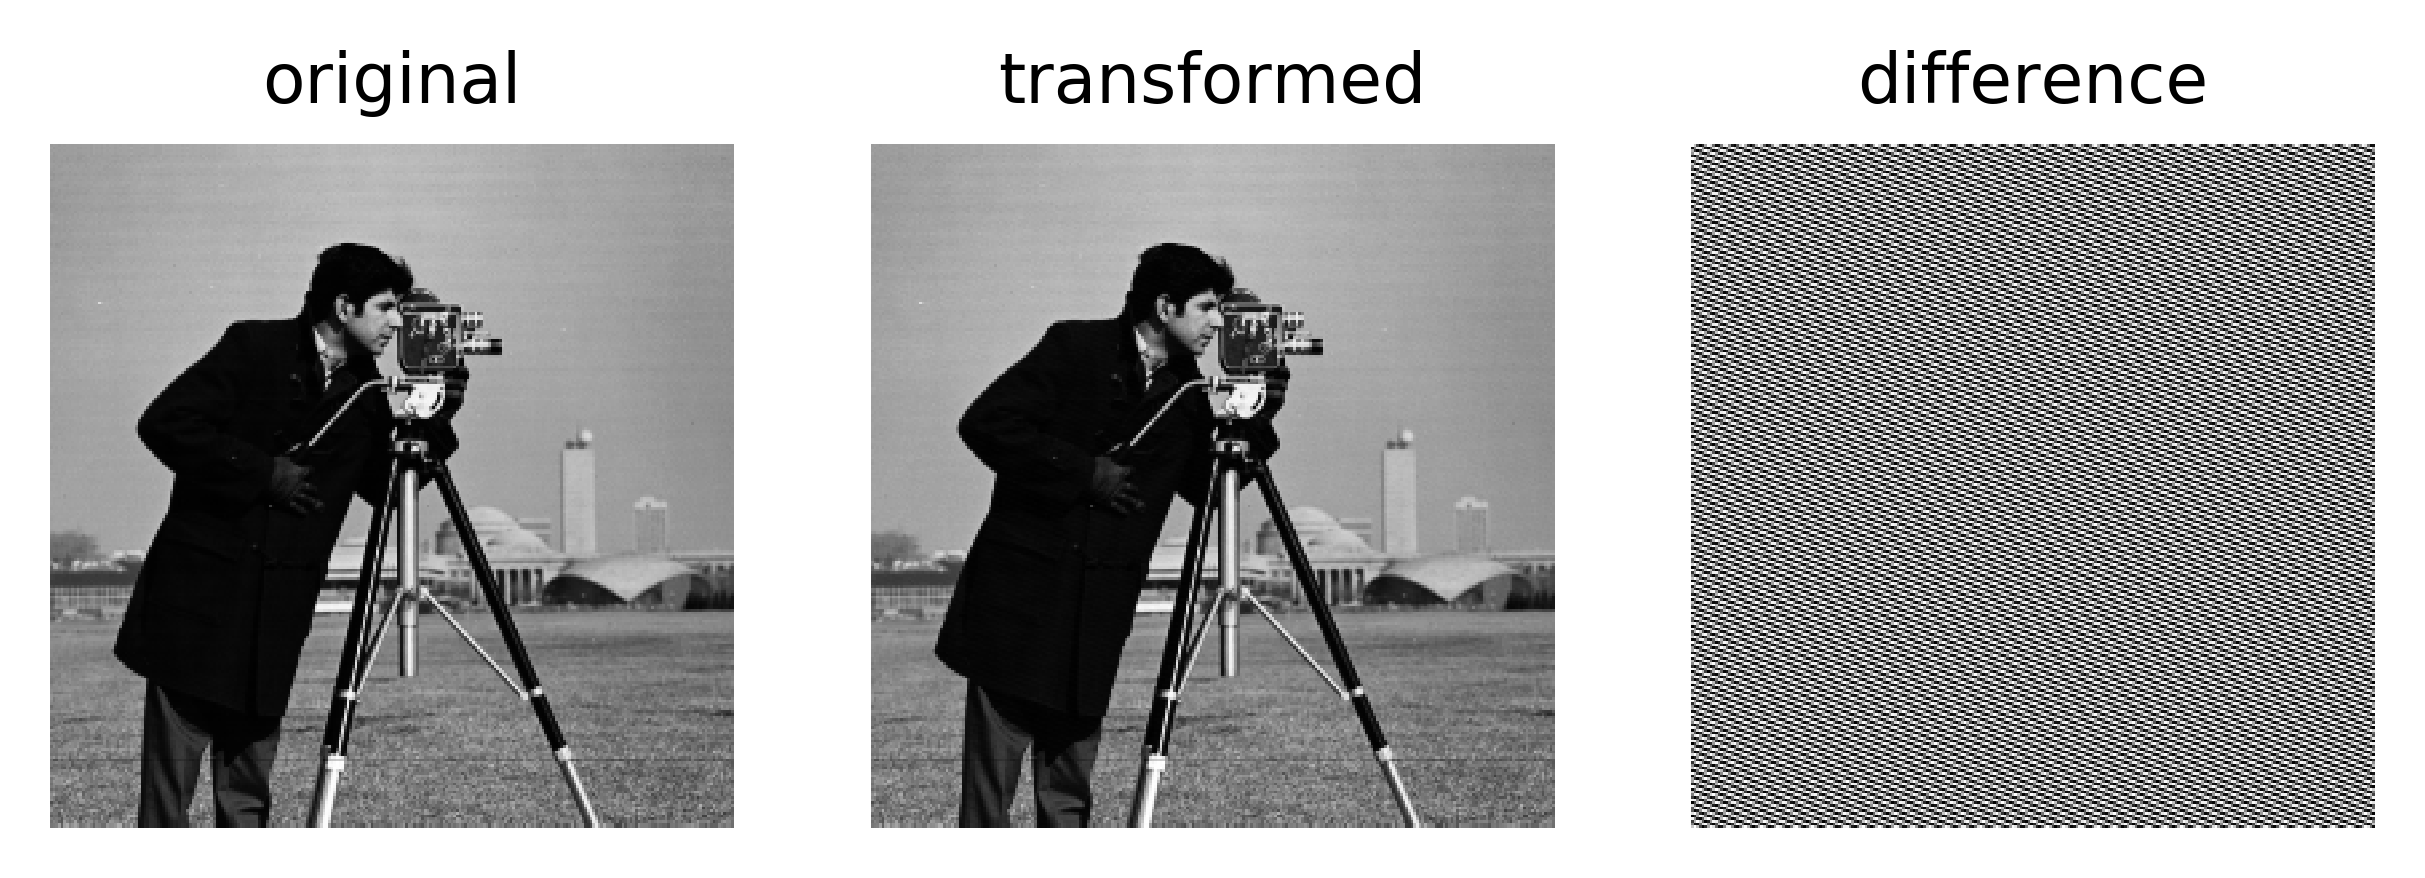
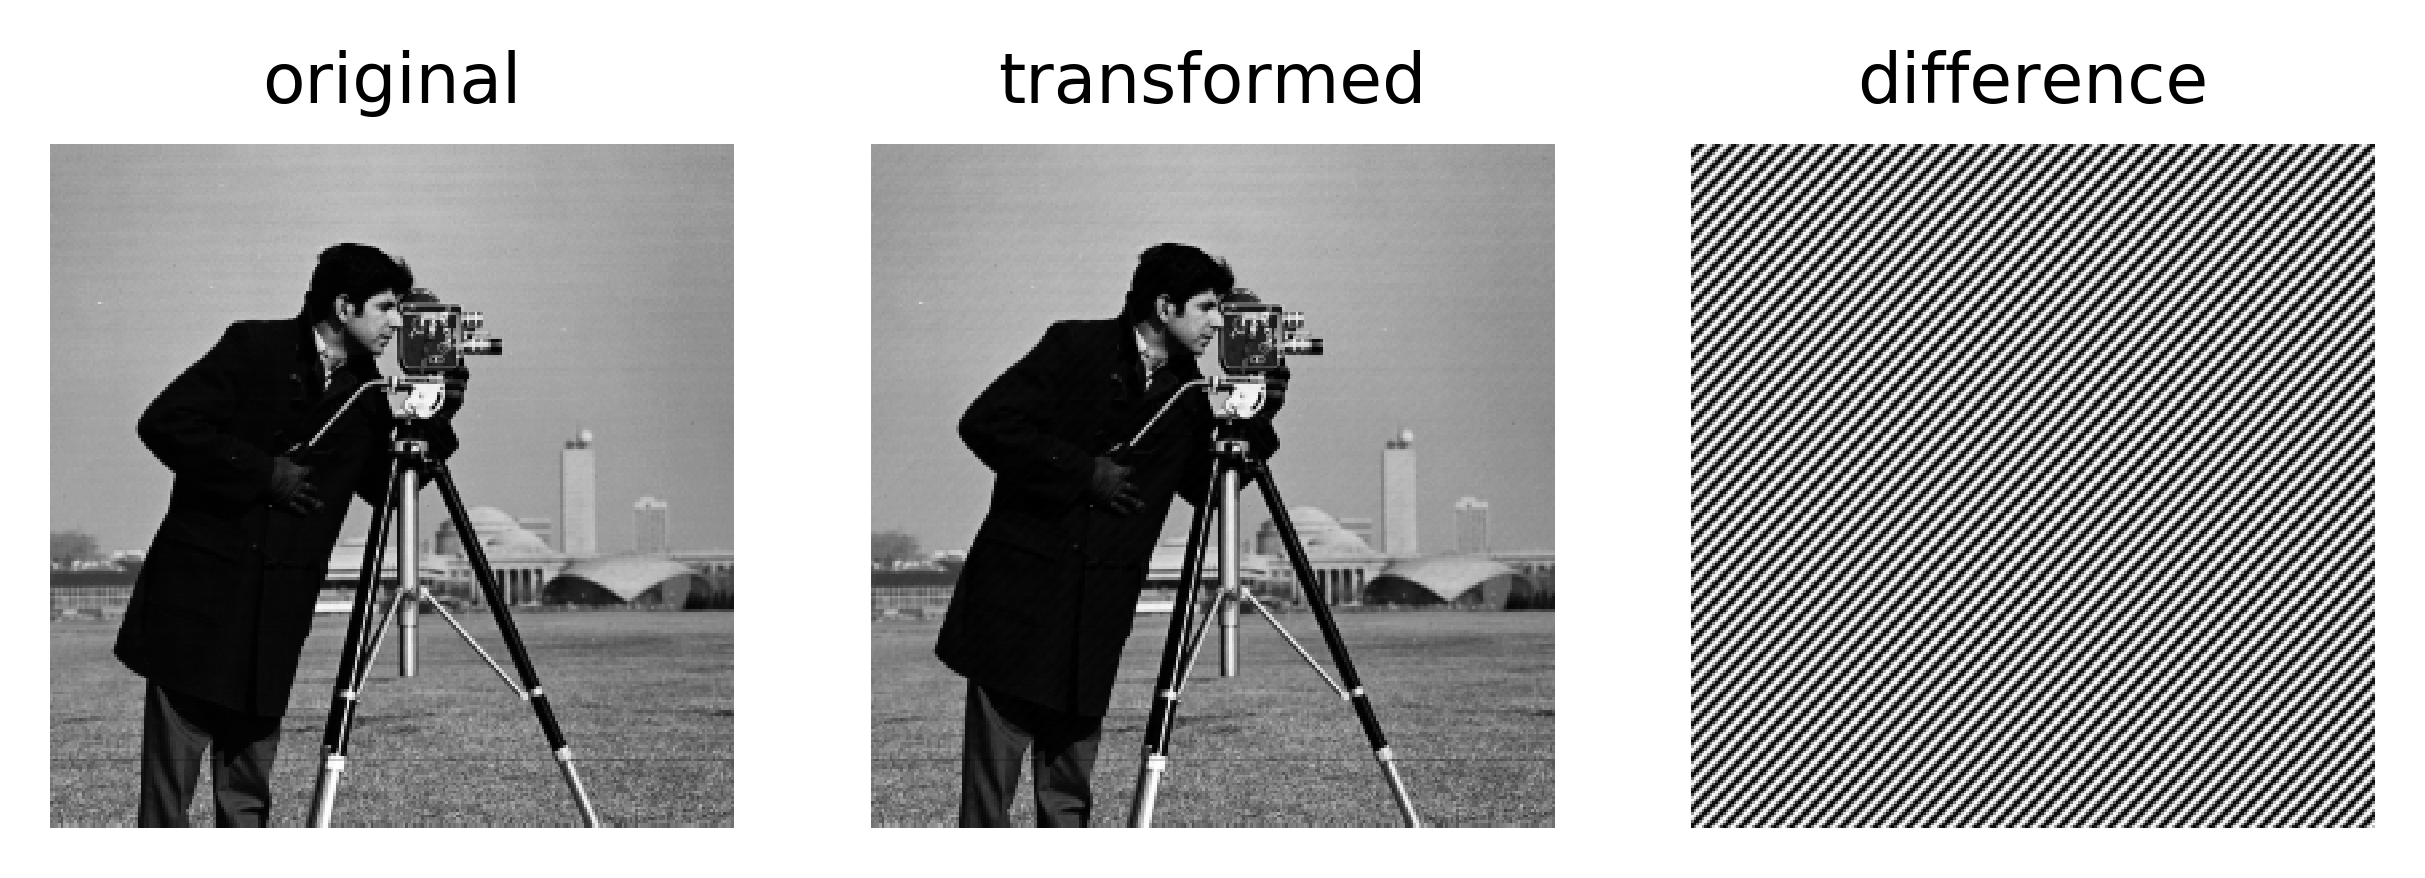
Compute the power spectrum of the result.

Changed region(s): [[0.6804, 0.1538, 0.9897, 0.9533]]

diff --git a/src/main.py b/src/main.py
@@ -311,7 +311,7 @@ def exer3(path):
     #  calculate the power spectrum of trui.png
     img = np.array(color.rgb2gray(io.imread("cameraman.tif").astype(float)))
        
-    cosf = coswave(1,10,1)
+    cosf = coswave(1,1,1)
     
     imgtransformed = addValue(img,cosf.func)
     
@@ -329,6 +329,31 @@ def exer3(path):
     sip3.savefig1(path + '2-3.png')
     close()
     
+
+    ## powerspectrums 
+    
+    powimg = sip3.powerSpectrum(img)
+    
+    powimgtransformed = sip3.powerSpectrum(imgtransformed)
+    
+    
+    powdiff = sip3.powerSpectrum(diff)
+    
+    
+ 
+    plt.figure
+    subplot(1,3,1)
+    sip3.plotImage(gca(), powimg, "original", gray=True)
+    subplot(1,3,2)
+    sip3.plotImage(gca(), powimgtransformed, "transformed", gray=True)
+    
+    subplot(1,3,3)
+    sip3.plotImage(gca(), powdiff, "difference", gray=True)
+    
+    sip3.savefig1(path + '2-3-powerspectrum.png')
+    close()
+    
+
 
 
     
